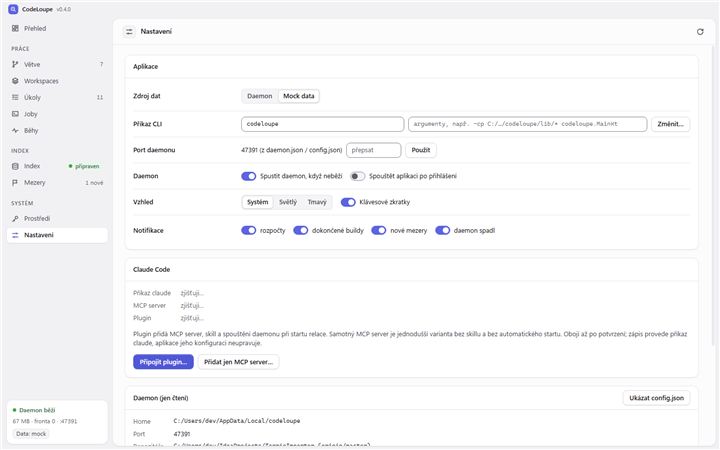
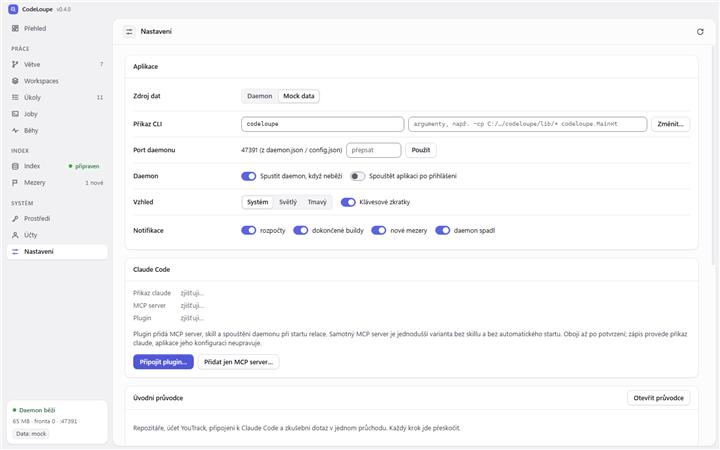
CL-design-revamp bring accounts, onboarding and updates onto the design
Onboarding sits on the inset panel under the title bar with segmented steps and a footer that stays in view; Účty use plus icons, banners and two-line cells; disabled switches look disabled. Screenshots refreshed, the merged screens included.

diff --git a/app/src/renderer/src/screens/Accounts.tsx b/app/src/renderer/src/screens/Accounts.tsx
@@ -4,7 +4,8 @@ import type { Accounts as AccountsData } from '../../../shared/contract';
 import { bridge, refreshAll, useApi } from '../api';
 import { ClaudeAccountDrawer, RenameDrawer, TokenDrawer, YoutrackAccountDrawer } from '../components/AccountDrawers';
 import { DataTable, type Column } from '../components/DataTable';
-import { Card, ErrorState, Loading } from '../components/Parts';
+import { Icon } from '../components/Icon';
+import { Banner, Card, ErrorState, Loading } from '../components/Parts';
 import { StatusBadge, type Tone } from '../components/StatusBadge';
 import { ago, pct, tokens } from '../format';
 
@@ -44,6 +45,7 @@ export function Accounts() {
           {a.email && <span className="muted" style={{ display: 'block' }}>{a.email}</span>}
         </span>
       ),
+      className: 'two-line',
     },
     {
       key: 'dir', header: 'Složka (CLAUDE_CONFIG_DIR)',
@@ -67,7 +69,7 @@ export function Accounts() {
   ];
 
   const youtrackColumns: Column<YoutrackRow>[] = [
-    { key: 'instance', header: 'Instance', render: a => <span>{a.label}<span className="muted mono" style={{ display: 'block' }}>{a.url}</span></span> },
+    { key: 'instance', header: 'Instance', render: a => <span>{a.label}<span className="muted mono" style={{ display: 'block' }}>{a.url}</span></span>, className: 'two-line' },
     { key: 'projects', header: 'Projekty', render: a => a.projects.join(', ') },
     { key: 'token', header: 'Token', render: a => (a.tokenConfigured ? <StatusBadge tone="ok">nastaven</StatusBadge> : <StatusBadge tone="warning">chybí</StatusBadge>) },
     {
@@ -88,16 +90,16 @@ export function Accounts() {
 
   return (
     <>
-      {notice && <div className={`banner${notice.ok ? ' info' : ''}`} role={notice.ok ? 'status' : 'alert'}>{notice.message}</div>}
-      <Card title="Claude účty" actions={<button className="btn primary" onClick={() => setPanel({ kind: 'claude-add' })}>+ Přidat účet</button>} bodyClass="">
+      {notice && <Banner tone={notice.ok ? 'info' : 'warning'} role={notice.ok ? 'status' : 'alert'}>{notice.message}</Banner>}
+      <Card title="Claude účty" actions={<button className="btn primary" onClick={() => setPanel({ kind: 'claude-add' })}><Icon name="plus" size={14} />Přidat účet</button>} bodyClass="">
         {data ? <DataTable label="Claude účty" rows={data.claude} columns={claudeColumns} rowKey={a => a.id} empty="Žádný účet." />
-          : loading ? <Loading /> : <ErrorState message={error?.message ?? 'Nelze načíst účty.'} onRetry={reload} />}
+          : loading ? <Loading variant="table" /> : <ErrorState message={error?.message ?? 'Nelze načíst účty.'} onRetry={reload} />}
       </Card>
-      <Card title="YouTrack účty" actions={<button className="btn primary" onClick={() => setPanel({ kind: 'youtrack-add' })}>+ Přidat účet</button>} bodyClass="">
+      <Card title="YouTrack účty" actions={<button className="btn" onClick={() => setPanel({ kind: 'youtrack-add' })}><Icon name="plus" size={14} />Přidat účet</button>} bodyClass="">
         {data ? <DataTable label="YouTrack účty" rows={data.youtrack} columns={youtrackColumns} rowKey={a => a.id} empty="Žádný účet YouTrack. Přidejte instanci s tokenem." />
-          : loading ? <Loading /> : <ErrorState message={error?.message ?? 'Nelze načíst účty.'} onRetry={reload} />}
+          : loading ? <Loading variant="table" /> : <ErrorState message={error?.message ?? 'Nelze načíst účty.'} onRetry={reload} />}
       </Card>
-      <p className="muted">Cena a okna se přiřazují účtu podle složky, ve které leží transcript. Tokeny jsou jen v šifrovaném úložišti; tato obrazovka je nikdy neukáže.</p>
+      <p className="footnote muted">Cena a okna se přiřazují účtu podle složky, ve které leží transcript. Tokeny jsou jen v šifrovaném úložišti; tato obrazovka je nikdy neukáže.</p>
       {panel?.kind === 'claude-add' && <ClaudeAccountDrawer onClose={() => setPanel(null)} onDone={done} />}
       {panel?.kind === 'claude-rename' && <RenameDrawer id={panel.id} label={panel.label} onClose={() => setPanel(null)} onDone={done} />}
       {panel?.kind === 'youtrack-add' && <YoutrackAccountDrawer onClose={() => setPanel(null)} onDone={done} />}

diff --git a/app/src/renderer/src/styles.css b/app/src/renderer/src/styles.css
@@ -340,6 +340,8 @@ button, select, input { font: inherit; color: inherit; }
 .check input[type='checkbox']:checked { background: var(--accent); border-color: var(--accent); }
 .check input[type='checkbox']:checked::before { transform: translateX(12px); background: #ffffff; }
 .check input[type='checkbox']:focus-visible { outline: 2px solid var(--focus); outline-offset: 2px; }
+.check:has(input:disabled) { opacity: 0.5; cursor: default; }
+.check input[type='checkbox']:disabled { cursor: default; }
 .filterbar { display: flex; flex-wrap: wrap; gap: var(--s-2); align-items: center; }
 .filterbar .hint { flex: 1 1 320px; font-size: var(--fs-sm); }
 
@@ -418,6 +420,7 @@ table.data tr.group > td { background: var(--surface-2); border-bottom: 1px soli
 table.data td.wrap { white-space: normal; }
 table.data td.ellipsis { max-width: 360px; overflow: hidden; text-overflow: ellipsis; }
 table.data td.ellipsis.narrow { max-width: 240px; }
+table.data td.two-line { padding-top: 6px; padding-bottom: 6px; line-height: 1.35; }
 table.data td.wrap-cell { white-space: normal; min-width: 170px; line-height: 1.35; padding-top: 6px; padding-bottom: 6px; }
 /* Row pickers: native checkboxes and radios (keyboard, forms) in the accent colour, sized to the row. */
 table.data input:is([type='checkbox'], [type='radio']) { accent-color: var(--accent); width: 15px; height: 15px; margin: 0; vertical-align: middle; cursor: pointer; }
@@ -717,15 +720,23 @@ table.data.import-table td { vertical-align: top; height: auto; padding-top: 8px
   .content::after { display: none; }
 }
 
-/* First-run onboarding (CL-119) */
-.onboarding-scroll { flex: 1; min-height: 0; overflow: auto; }
-.onboarding { min-height: 100%; max-width: 880px; margin: 0 auto; padding: 24px 16px; display: flex; flex-direction: column; gap: 16px; }
+/* ── First-run onboarding (CL-119): the same inset panel as the screens, steps as pills, actions stay in view ── */
+.onboarding-scroll {
+  flex: 1; min-height: 0; overflow: auto; margin: 0 8px 8px; background: var(--bg);
+  border: 1px solid var(--border); border-radius: var(--r-xl); box-shadow: var(--shadow-1), inset 0 1px 0 var(--highlight);
+}
+.onboarding { min-height: 100%; max-width: 880px; margin: 0 auto; padding: var(--s-8) var(--s-6) 0; display: flex; flex-direction: column; gap: var(--s-4); }
 .onboarding-head { display: flex; align-items: center; justify-content: space-between; gap: 12px; }
-.onboarding-head h1 { margin: 0; font-size: 20px; }
-.steps { display: flex; gap: 4px; list-style: none; margin: 0; padding: 0; flex-wrap: wrap; }
-.steps li[aria-current='step'] .btn { background: var(--accent-weak); color: var(--accent-text); }
+.onboarding-head h1 { margin: 0; font-size: var(--fs-xl); letter-spacing: -0.02em; }
+.steps { display: flex; gap: 2px; list-style: none; margin: 0; padding: 2px; flex-wrap: wrap; align-self: flex-start; border-radius: var(--r-md); background: var(--surface-2); box-shadow: inset 0 0 0 1px var(--border); }
+.steps .btn { min-height: 26px; }
+.steps li[aria-current='step'] .btn { background: var(--surface); color: var(--text); font-weight: 600; box-shadow: var(--shadow-1), inset 0 0 0 1px var(--border-strong); }
 .steps li.done .btn { color: var(--text-2); }
 .onboarding-body { flex: 1; display: flex; flex-direction: column; gap: 12px; }
-.onboarding-foot { display: flex; gap: 8px; align-items: center; }
-.onboarding pre.mono { white-space: pre-wrap; overflow-wrap: anywhere; background: var(--surface-2); padding: 8px; border-radius: 6px; max-height: 320px; overflow: auto; }
-.onboarding pre.warn { border-left: 3px solid var(--warning); }
+.onboarding-body ul.plain { margin: 4px 0 0; padding-left: 18px; }
+.onboarding-foot {
+  position: sticky; bottom: 0; display: flex; gap: 8px; align-items: center;
+  padding: var(--s-3) 0 var(--s-4); background: var(--bg); border-top: 1px solid var(--border);
+}
+.onboarding pre.mono { white-space: pre-wrap; overflow-wrap: anywhere; background: var(--surface-2); padding: 10px 12px; border-radius: var(--r-md); max-height: 320px; overflow: auto; box-shadow: inset 0 0 0 1px var(--border); }
+.onboarding pre.warn { box-shadow: inset 3px 0 0 var(--warning), inset 0 0 0 1px var(--border); }

diff --git a/app/src/renderer/src/components/UpdateCard.tsx b/app/src/renderer/src/components/UpdateCard.tsx
@@ -39,7 +39,7 @@ export function UpdateCard() {
           <><dt>Daemon</dt><dd>Daemon verze {state.rollback.failedVersion} se nespustil ({state.rollback.reason}), běží předchozí verze {state.rollback.usingVersion}.</dd></>
         )}
       </dl>
-      <div className="form-row">
+      <div className="actions" style={{ margin: '12px 0 4px' }}>
         <label className="check">
           <input type="checkbox" checked={settings.autoUpdate} disabled={state.mode === 'unavailable'} onChange={e => void update({ autoUpdate: e.target.checked })} /> Hledat novou verzi automaticky
         </label>

diff --git a/app/src/renderer/src/screens/Onboarding.tsx b/app/src/renderer/src/screens/Onboarding.tsx
@@ -70,7 +70,7 @@ function Repositories() {
           {result.rejected.length > 0 && <ul className="plain">{result.rejected.map(r => <li key={r.path}><span className="mono">{r.path}</span>: {r.reason}</li>)}</ul>}
         </div>
       )}
-      <h2 className="t2">Daemon zná</h2>
+      <div className="sublabel">Daemon zná</div>
       {repos.length === 0 ? <p className="t2">Zatím žádný repozitář.</p> : <ul className="plain">{repos.map(r => <li key={r.id} className="mono">{r.path}</li>)}</ul>}
     </Card>
   );

diff --git a/docs/design-revamp.md b/docs/design-revamp.md
@@ -1,8 +1,8 @@
 # CodeLoupe Desktop — design revamp
 
-Stav 2026-10-08 · větev `CL-design-revamp`. Vizuální vrstva aplikace (`app/src/renderer`) pro všech deset obrazovek
-(Přehled, Větve, Workspaces, Úkoly, Joby, Běhy, Index, Mezery, Prostředí, Nastavení), jejich detaily a stavy, a vlastní
-titulková lišta okna; data, IPC, kontrakt a chování se nemění. Nahrazuje § 6 (tokeny) a doplňuje § 1, § 5 a § 7
+Stav 2026-10-08 · větev `CL-design-revamp`. Vizuální vrstva aplikace (`app/src/renderer`) pro všech jedenáct obrazovek
+(Přehled, Větve, Workspaces, Úkoly, Joby, Běhy, Index, Mezery, Prostředí, Účty, Nastavení), jejich detaily a stavy,
+úvodní průvodce (na stejném vsazeném panelu, kroky jako segmenty, akce stále na očích) a vlastní titulková lišta okna; data, IPC, kontrakt a chování se nemění. Nahrazuje § 6 (tokeny) a doplňuje § 1, § 5 a § 7
 v [ui-spec.md](ui-spec.md).
 Před/po: [design-revamp/](design-revamp/).
 
